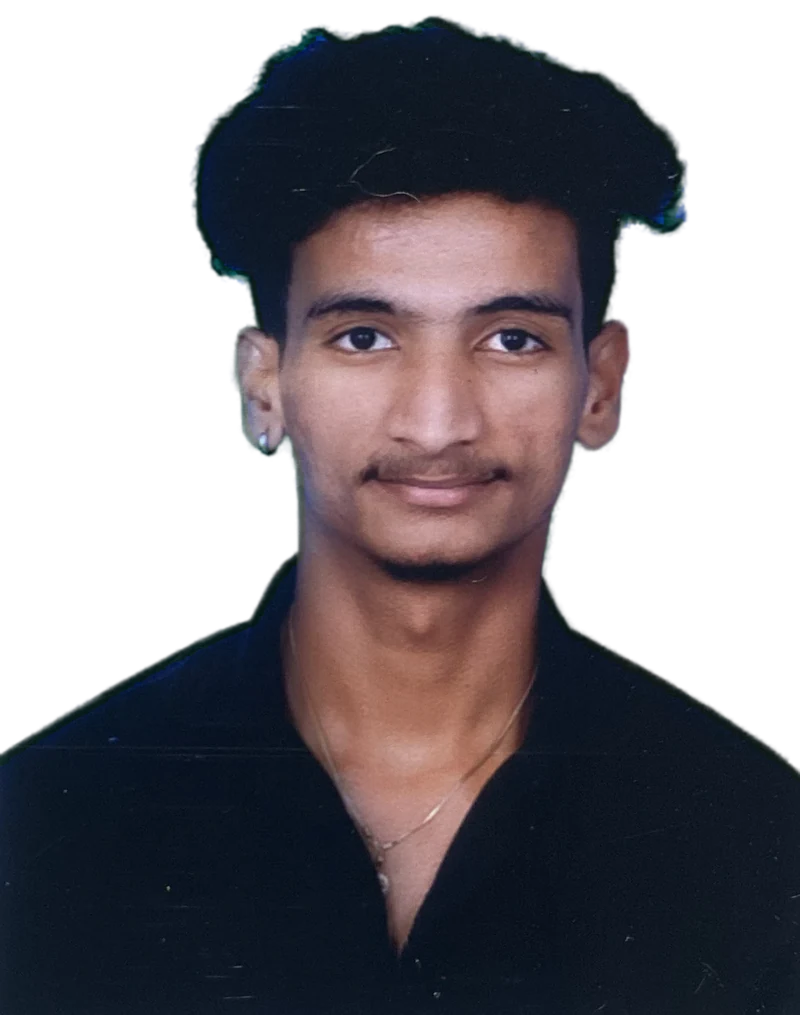
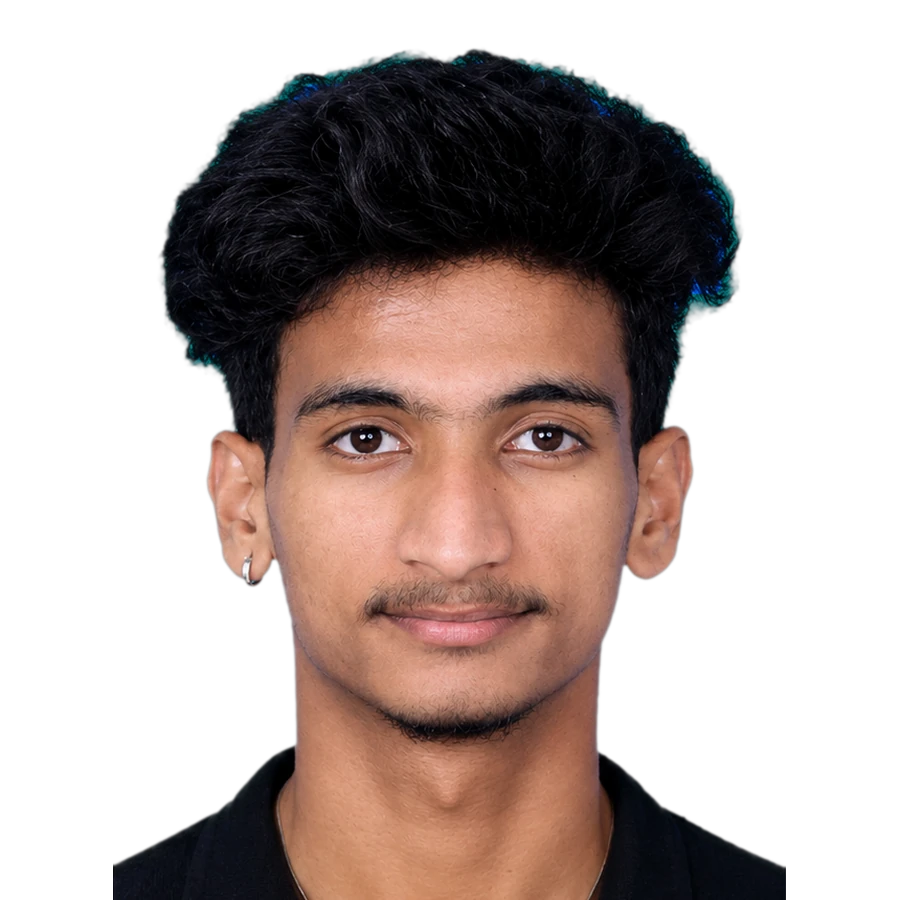
Add files via upload

diff --git a/styles.css b/styles.css
@@ -196,15 +196,23 @@ a.row:hover .ic,.row.copy:hover .ic{background:var(--grad);color:var(--on);trans
 .hero-grid{display:grid;grid-template-columns:1.25fr .75fr;gap:48px;align-items:center}
 .hero-grid h1{font-size:clamp(2.5rem,5.4vw,4.6rem)}
 .hero-photo{position:relative;justify-self:center;width:min(100%,380px)}
-.frame{position:relative;aspect-ratio:4/5;border-radius:34px;padding:3px;background:var(--grad);box-shadow:0 30px 70px -30px color-mix(in srgb,var(--a3) 70%,transparent);animation:floaty 7s ease-in-out infinite;transition:transform .5s cubic-bezier(.2,.8,.2,1)}
-.frame::before{content:"";position:absolute;inset:3px;border-radius:31px;background:radial-gradient(120% 90% at 50% 15%,color-mix(in srgb,var(--a3) 55%,var(--card)),var(--card) 70%)}
-.frame img{position:relative;display:block;width:100%;height:100%;object-fit:cover;object-position:50% 12%;border-radius:31px}
-.hero-photo:hover .frame{transform:rotate(-1.5deg) scale(1.025)}
+.frame{position:relative;display:block;width:100%;aspect-ratio:1/1;padding:3px;border:0;border-radius:38px;background:var(--grad);cursor:pointer;box-shadow:0 30px 70px -30px color-mix(in srgb,var(--a3) 70%,transparent);animation:floaty 7s ease-in-out infinite;transition:border-radius .7s cubic-bezier(.65,0,.35,1),box-shadow .4s,filter .3s;-webkit-tap-highlight-color:transparent}
+.frame.round{border-radius:50%}
+.frame::before{content:"";position:absolute;inset:3px;border-radius:inherit;background:radial-gradient(120% 90% at 50% 12%,color-mix(in srgb,var(--a3) 60%,var(--card)),var(--card) 72%)}
+.frame img{position:relative;display:block;width:100%;height:100%;object-fit:cover;border-radius:inherit;transition:transform .7s cubic-bezier(.65,0,.35,1)}
+.frame:hover{box-shadow:0 36px 80px -28px color-mix(in srgb,var(--a1) 55%,transparent)}
+.frame:hover img{transform:scale(1.04)}
+.frame:active img{transform:scale(.98)}
+.frame:focus-visible{outline:3px solid var(--a1);outline-offset:6px}
+.swap{position:absolute;right:2%;bottom:2%;width:42px;height:42px;border-radius:50%;display:grid;place-items:center;background:var(--card);color:var(--a1);border:1px solid var(--line);box-shadow:var(--shadow);transition:transform .7s cubic-bezier(.65,0,.35,1),background .3s,color .3s}
+.swap svg{width:20px;height:20px}
+.frame:hover .swap{background:var(--grad);color:var(--on);border-color:transparent}
+.frame.round .swap{transform:rotate(180deg)}
+.frame.round{animation-name:floaty}
 @keyframes floaty{50%{transform:translateY(-10px)}}
-.chip-float{position:absolute;left:-14px;bottom:26px;padding:9px 16px;border-radius:999px;background:var(--card);border:1px solid var(--line);color:var(--text);font-size:.84rem;font-weight:600;box-shadow:var(--shadow);animation:floaty 7s -3s ease-in-out infinite}
 @media(max-width:860px){
   .hero-grid{grid-template-columns:1fr;gap:34px}
-  .hero-photo{order:-1;width:min(66%,260px)}
+  .hero-photo{order:-1;width:min(70%,280px)}
   .hero-grid h1{font-size:clamp(2.3rem,10vw,3.4rem)}
-  .chip-float{left:50%;transform:translateX(-50%);bottom:-14px;white-space:nowrap}
+  .swap{width:38px;height:38px}
 }

diff --git a/index.html b/index.html
@@ -42,11 +42,11 @@
       <a class="btn" href="/skills#contact">Get in touch</a>
     </div>
       </div>
-      <div class="hero-photo" aria-hidden="false">
-        <div class="frame">
-          <img src="/profile.webp" width="800" height="1015" alt="Portrait of Kadam Shiva Shankar" fetchpriority="high">
-        </div>
-        <span class="chip-float">Hyderabad, India</span>
+      <div class="hero-photo">
+        <button class="frame" type="button" aria-pressed="false" aria-label="Change photo shape" title="Click to change the shape">
+          <img src="/profile.webp" width="900" height="900" alt="Portrait of Kadam Shiva Shankar" fetchpriority="high">
+          <span class="swap" aria-hidden="true"><svg viewBox="0 0 24 24" fill="none" stroke="currentColor" stroke-width="2" stroke-linecap="round" stroke-linejoin="round"><rect x="3" y="3" width="8" height="8" rx="2"/><circle cx="17" cy="17" r="4.5"/><path d="M14 6h5M17 3l3 3-3 3"/></svg></span>
+        </button>
       </div>
     </div>
     <div class="stats">

diff --git a/script.js b/script.js
@@ -168,3 +168,12 @@ document.querySelectorAll('a[href^="/"]').forEach((a) => {
   });
 });
 addEventListener('pageshow', () => document.body.classList.remove('leaving'));
+
+// ===== Photo shape: click to switch rounded square <-> circle =====
+const frame = document.querySelector('.frame');
+if (frame) {
+  frame.addEventListener('click', () => {
+    const round = frame.classList.toggle('round');
+    frame.setAttribute('aria-pressed', round);
+  });
+}
